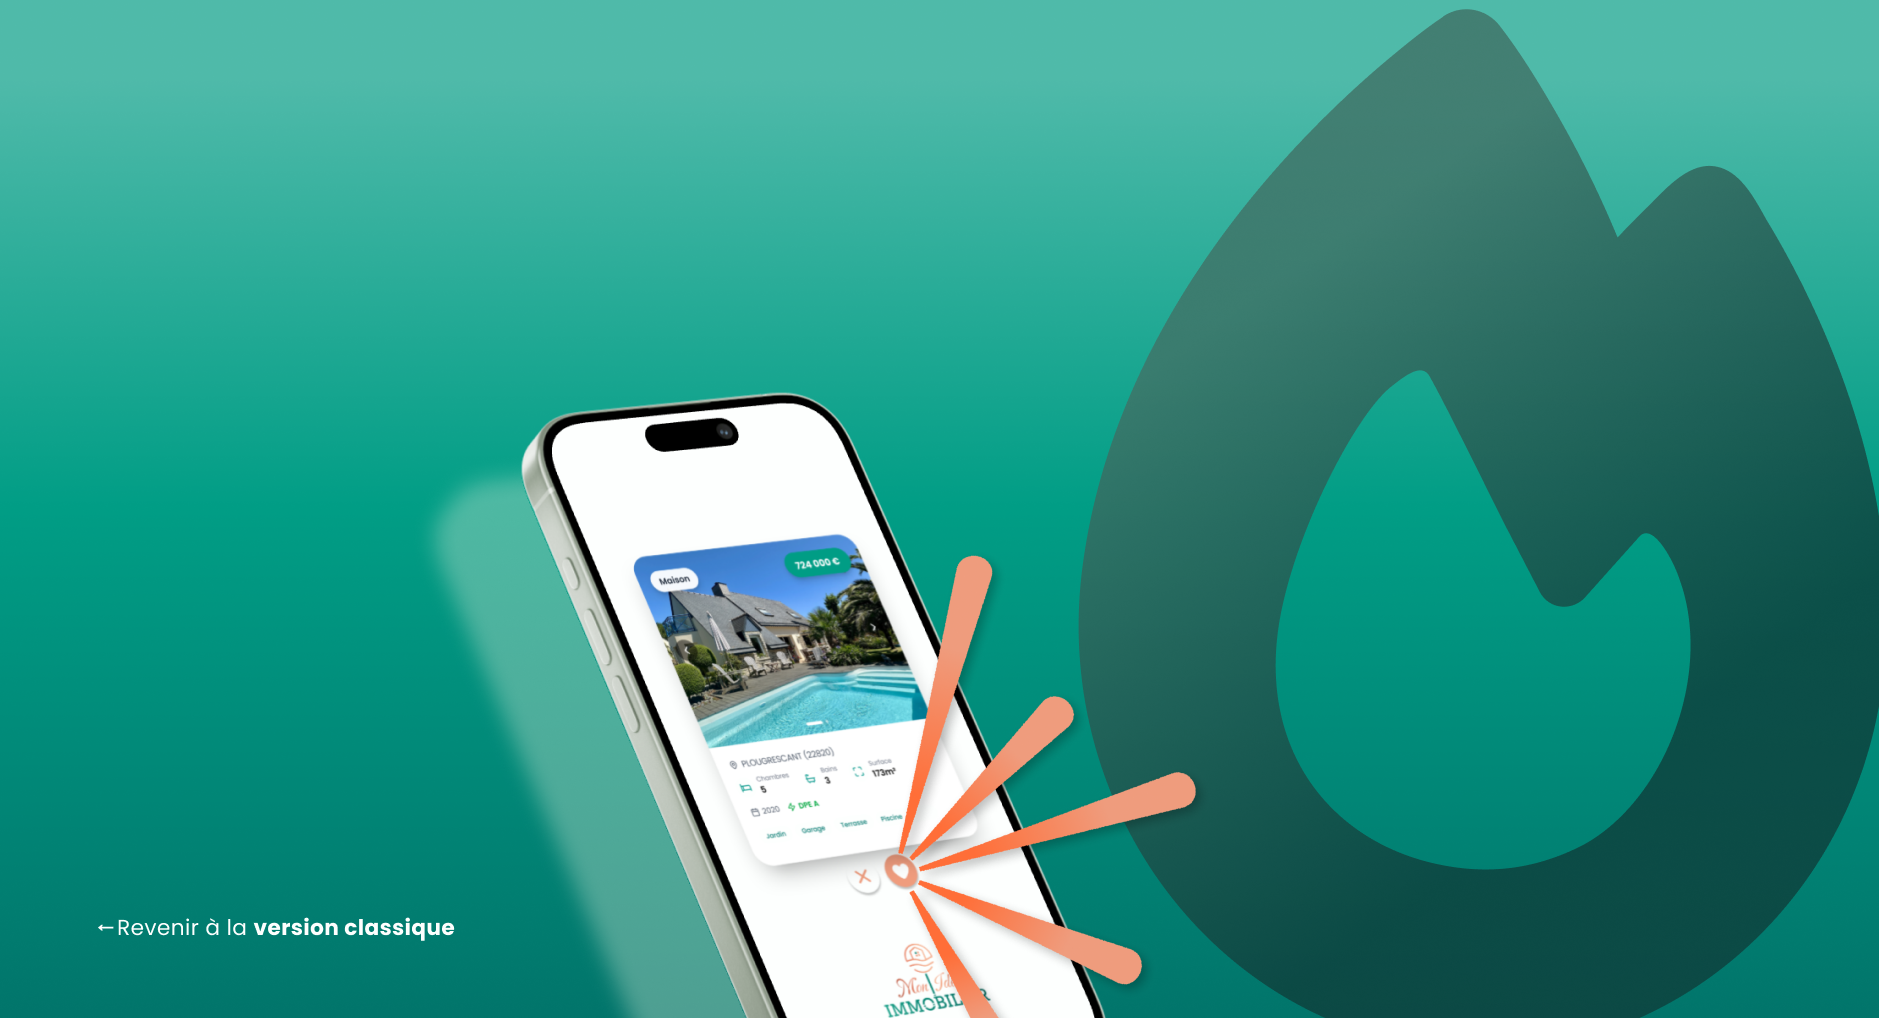
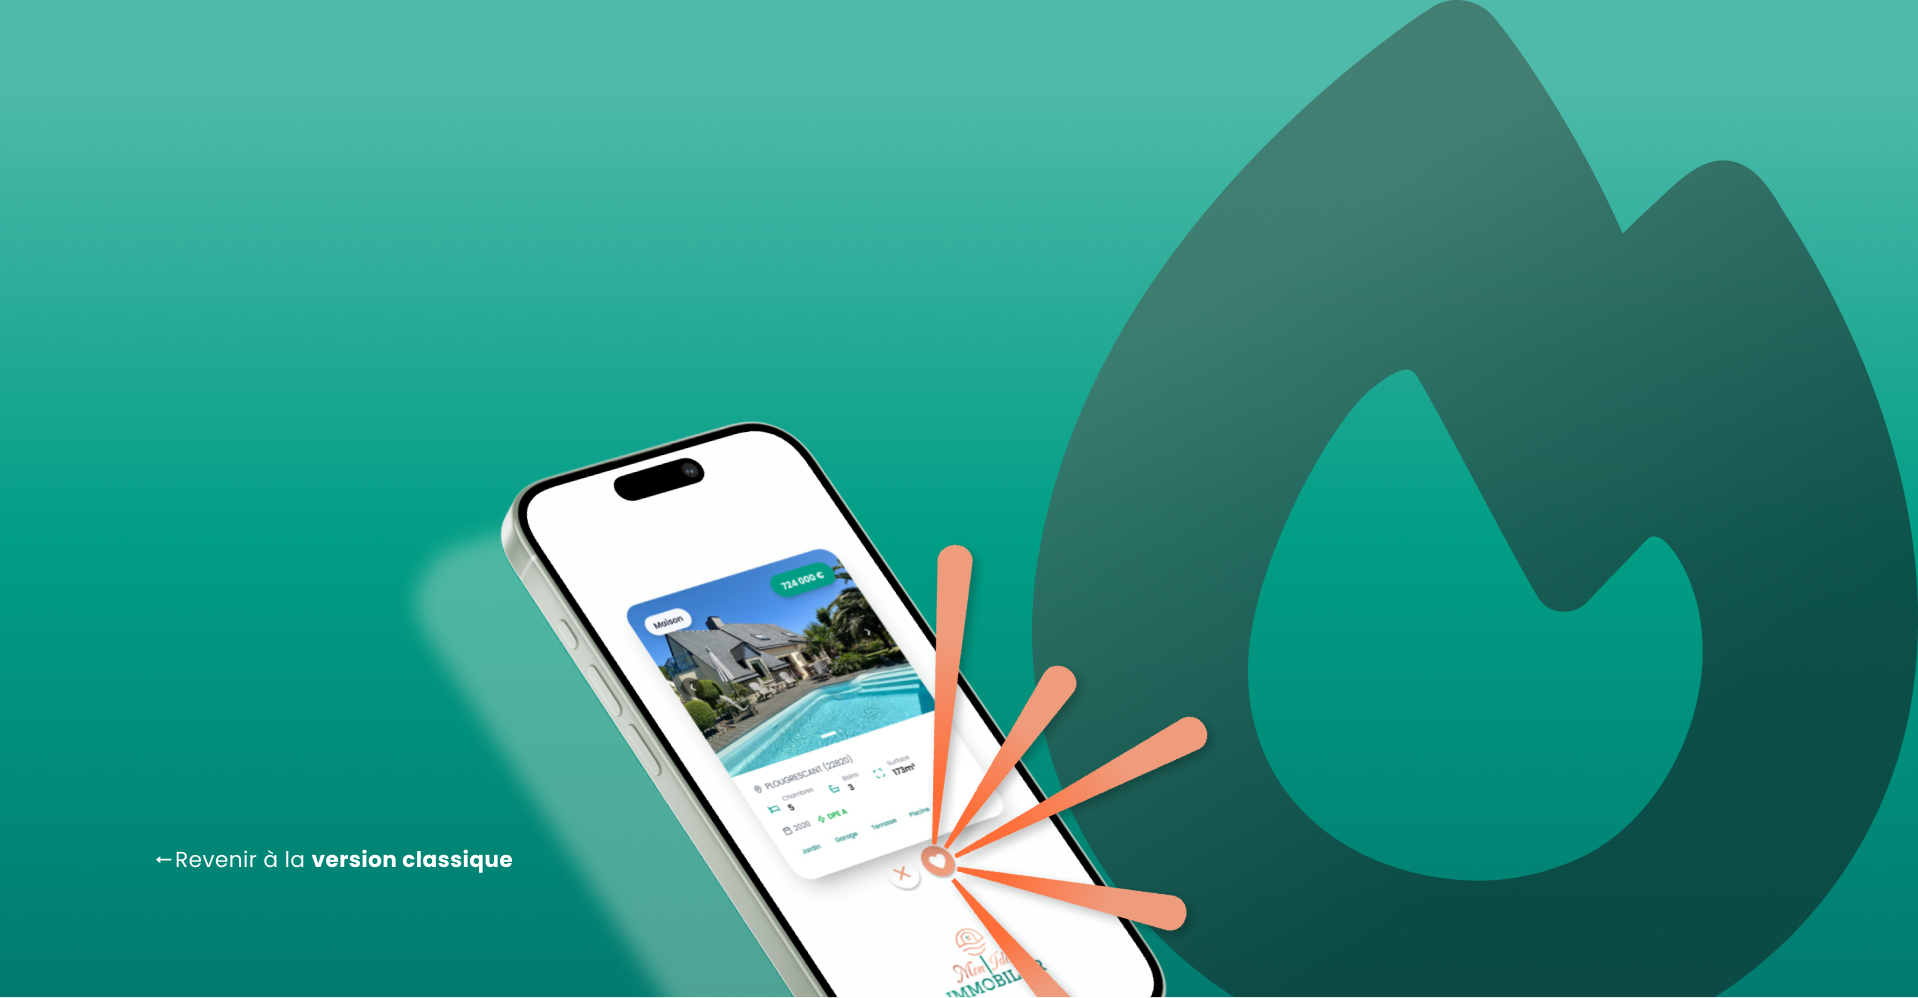
caroussel

diff --git a/index.html b/index.html
@@ -36,7 +36,7 @@
     <section class="hero-carousel">
         <div class="carousel-container">
             <!-- Slide 1: Recherche classique -->
-            <div class="slide active" style="background-image: url('img/image_banniere.png');">
+            <div class="slide active" style="background-image: url('img/imageaccueil.png');">
                 <div class="slide-overlay"></div>
                 <div class="hero-content">
                     <h1>Trouvez le bien idéal</h1>
@@ -54,7 +54,6 @@
                             <button>Terrain</button>
                         </div>
                     </div>
-                    <a href="#" class="match-link">Découvrez notre nouvelle façon de trouver votre match →</a>
                 </div>
             </div>
 
@@ -64,10 +63,6 @@
                 <div class="hero-content">
                     <h1>Matchez avec votre bien de rêve</h1>
                     <p>Swipez, likez, visitez !</p>
-
-                    <div class="match-cta">
-                        <a href="#" class="btn-back-classic">← Revenir à la version classique</a>
-                    </div>
                 </div>
             </div>
         </div>

diff --git a/style.css b/style.css
@@ -156,16 +156,6 @@ html {
     transition: opacity 1.2s ease-in-out;
 }
 
-.slide-overlay {
-    position: absolute;
-    top: 0;
-    left: 0;
-    width: 100%;
-    height: 100%;
-    background: linear-gradient(to right, rgba(0, 0, 0, 0.7) 0%, rgba(0, 0, 0, 0.3) 50%, rgba(0, 0, 0, 0.1) 100%);
-    z-index: 1;
-}
-
 .slide.active {
     opacity: 1;
 }
@@ -178,7 +168,7 @@ html {
     transform: translateY(-50%);
     z-index: 10;
     color: white;
-    max-width: 650px;
+    max-width: 2000px;
     opacity: 0;
     transition: opacity 0.8s ease 0.4s, transform 0.8s ease 0.4s;
 }
@@ -294,7 +284,7 @@ html {
 
 .slide-match .hero-content {
     left: 80px;
-    max-width: 550px;
+    max-width: 1000px;
 }
 
 .slide-match h1 {
